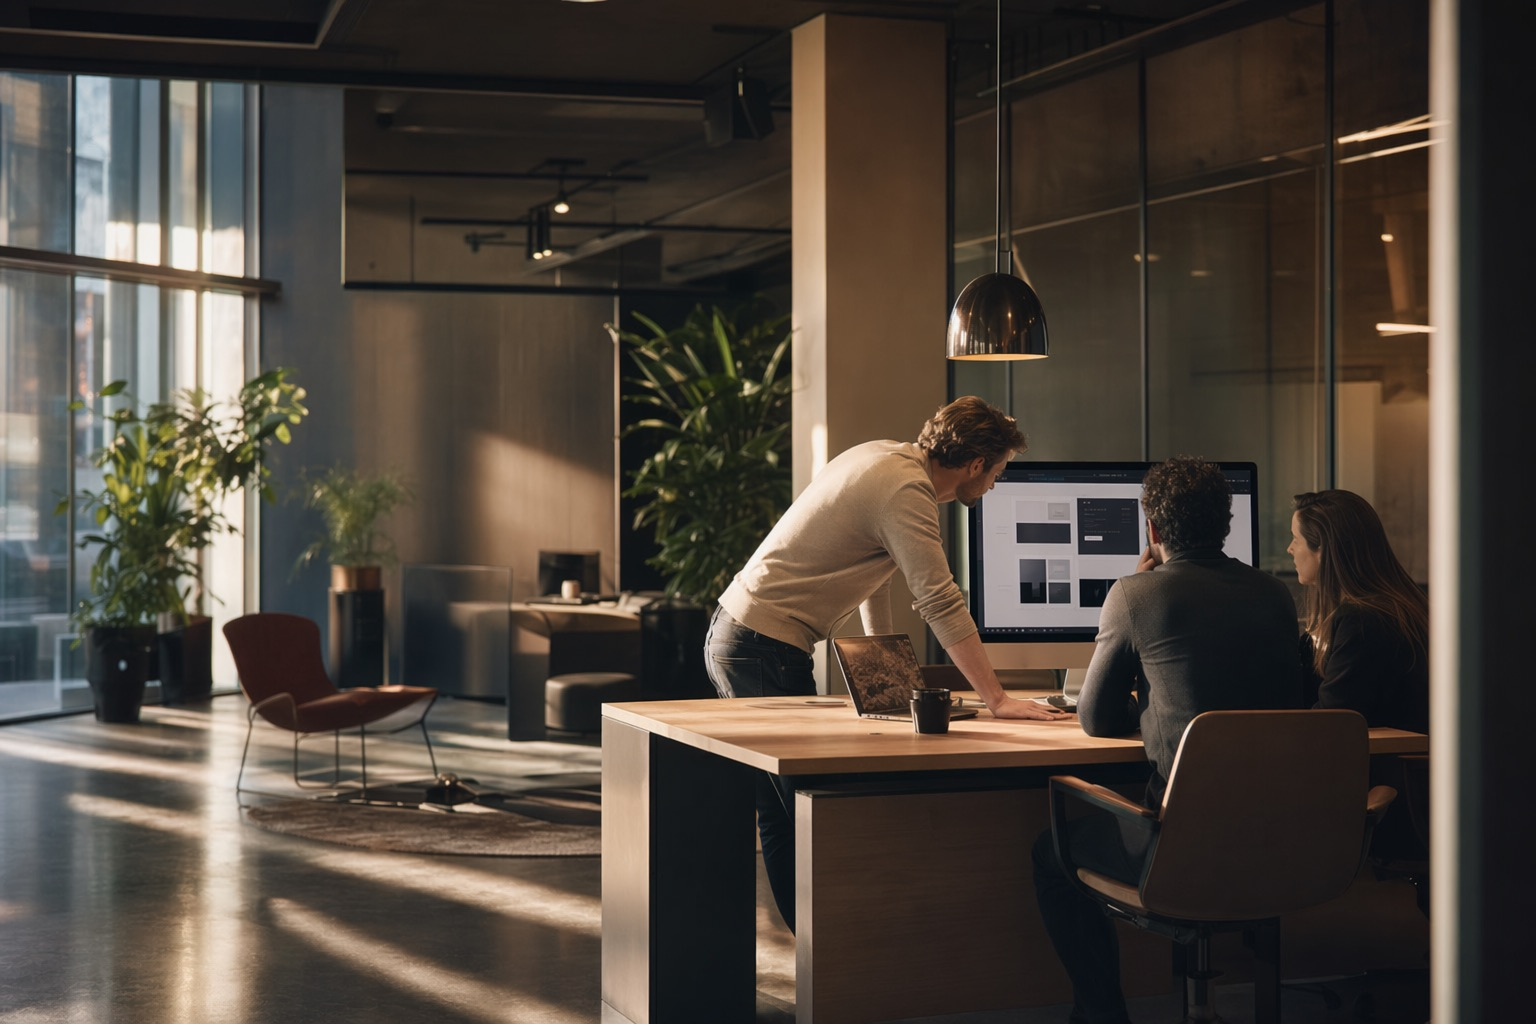
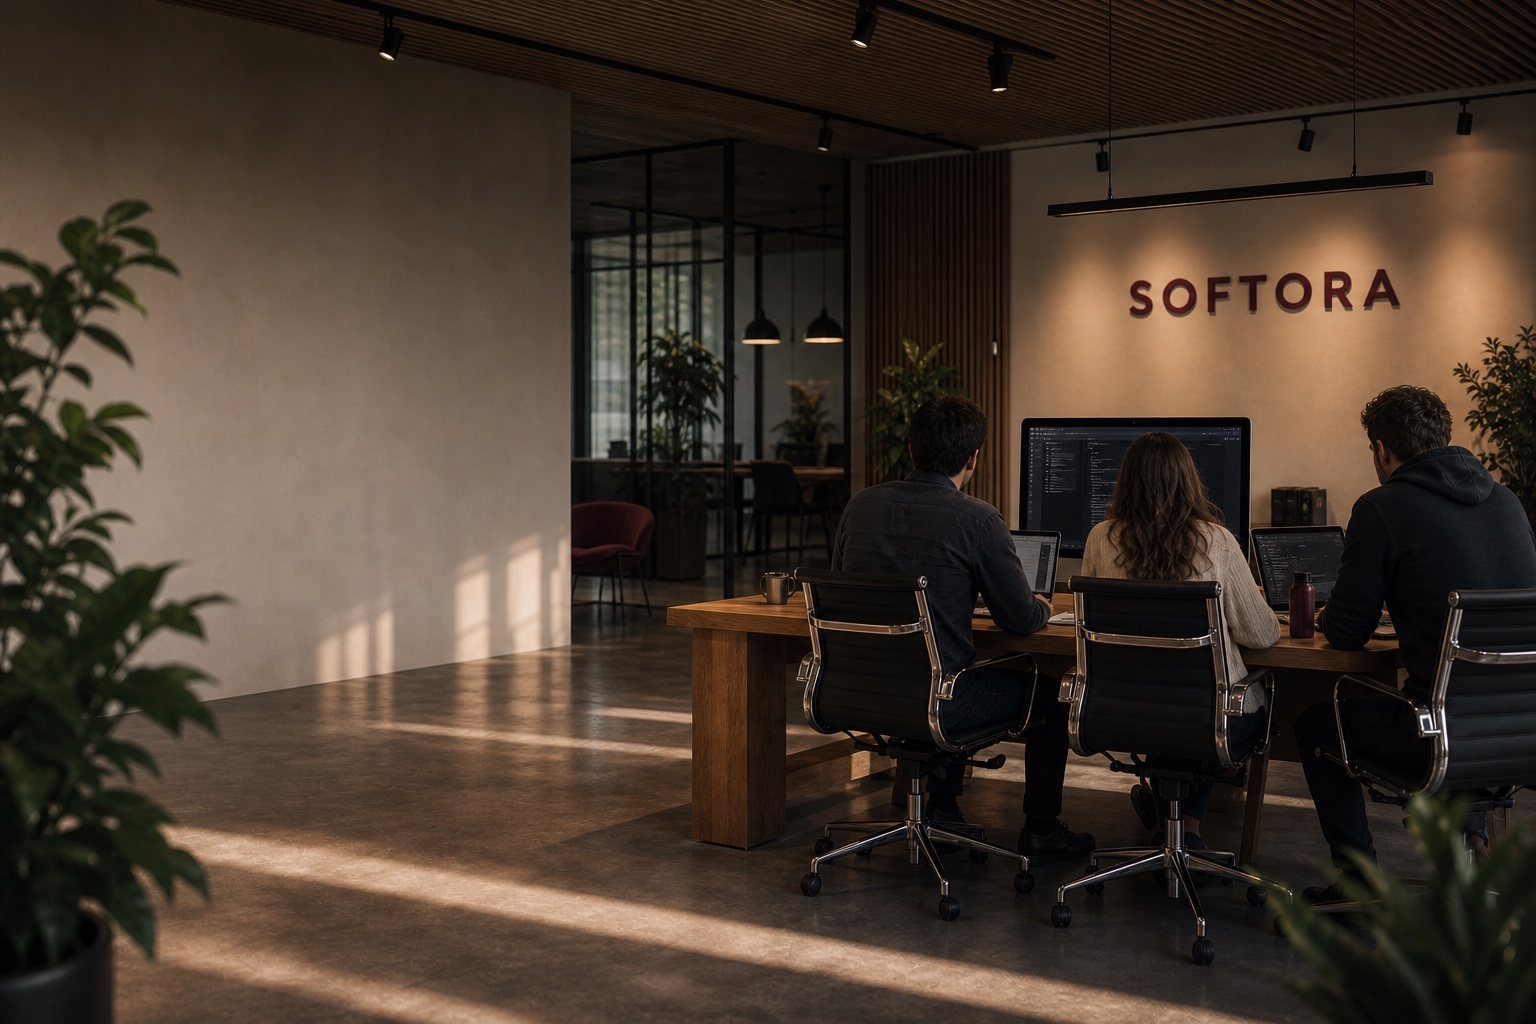
Update homepage AI brand photography

diff --git a/premium-website.html b/premium-website.html
@@ -396,7 +396,7 @@
             content: '';
             position: absolute;
             inset: 0;
-            background: url('/assets/home-hero-generated-v2.jpg') center 48% / cover no-repeat;
+            background: url('/assets/home-hero-generated-v2.jpg?v=20260511a') center 48% / cover no-repeat;
             z-index: 0;
         }
 
@@ -2488,7 +2488,7 @@
         }
 
         .hero::before {
-            background: url('/assets/home-hero-generated-v2.jpg') center 52% / cover no-repeat;
+            background: url('/assets/home-hero-generated-v2.jpg?v=20260511a') center 52% / cover no-repeat;
             transform: scale(1.03);
         }
 
@@ -3228,7 +3228,7 @@
     <section class="image-text-section perf-deferred-section" id="over" style="padding: 1rem 4rem 3.5rem;">
         <div class="image-text-frame">
             <div class="image-side">
-                <img src="/assets/home-over-office-meeting-ai.jpg" alt="AI-gegenereerde visuele scene bij de no-nonsense projectaanpak van Softora" width="1536" height="1024" loading="lazy" decoding="async" fetchpriority="low">
+                <img src="/assets/home-over-office-meeting-ai.jpg?v=20260511a" alt="AI-gegenereerde visuele scene bij de no-nonsense projectaanpak van Softora" width="1536" height="1024" loading="lazy" decoding="async" fetchpriority="low">
             </div>
             <div class="content-side about-panel fade-up">
                 <span class="eyebrow" style="border: none; padding: 0; color: var(--text-tertiary); font-size: 0.85rem; display: inline-block; margin-bottom: 1.4rem;">Over Ons</span>

diff --git a/server/services/html-pages.js b/server/services/html-pages.js
@@ -50,7 +50,7 @@ html,body{min-height:100vh;}
 </style>`,
   LOCAL_FONT_STYLESHEET_LINK,
 ].join('\n');
-const HOMEPAGE_HERO_IMAGE_URL = '/assets/home-hero-generated-v2.jpg';
+const HOMEPAGE_HERO_IMAGE_URL = '/assets/home-hero-generated-v2.jpg?v=20260511a';
 const HOMEPAGE_HERO_IMAGE_PRELOAD = `<link rel="preload" as="image" href="${HOMEPAGE_HERO_IMAGE_URL}">`;
 
 function createHtmlPageCoordinator(options = {}) {